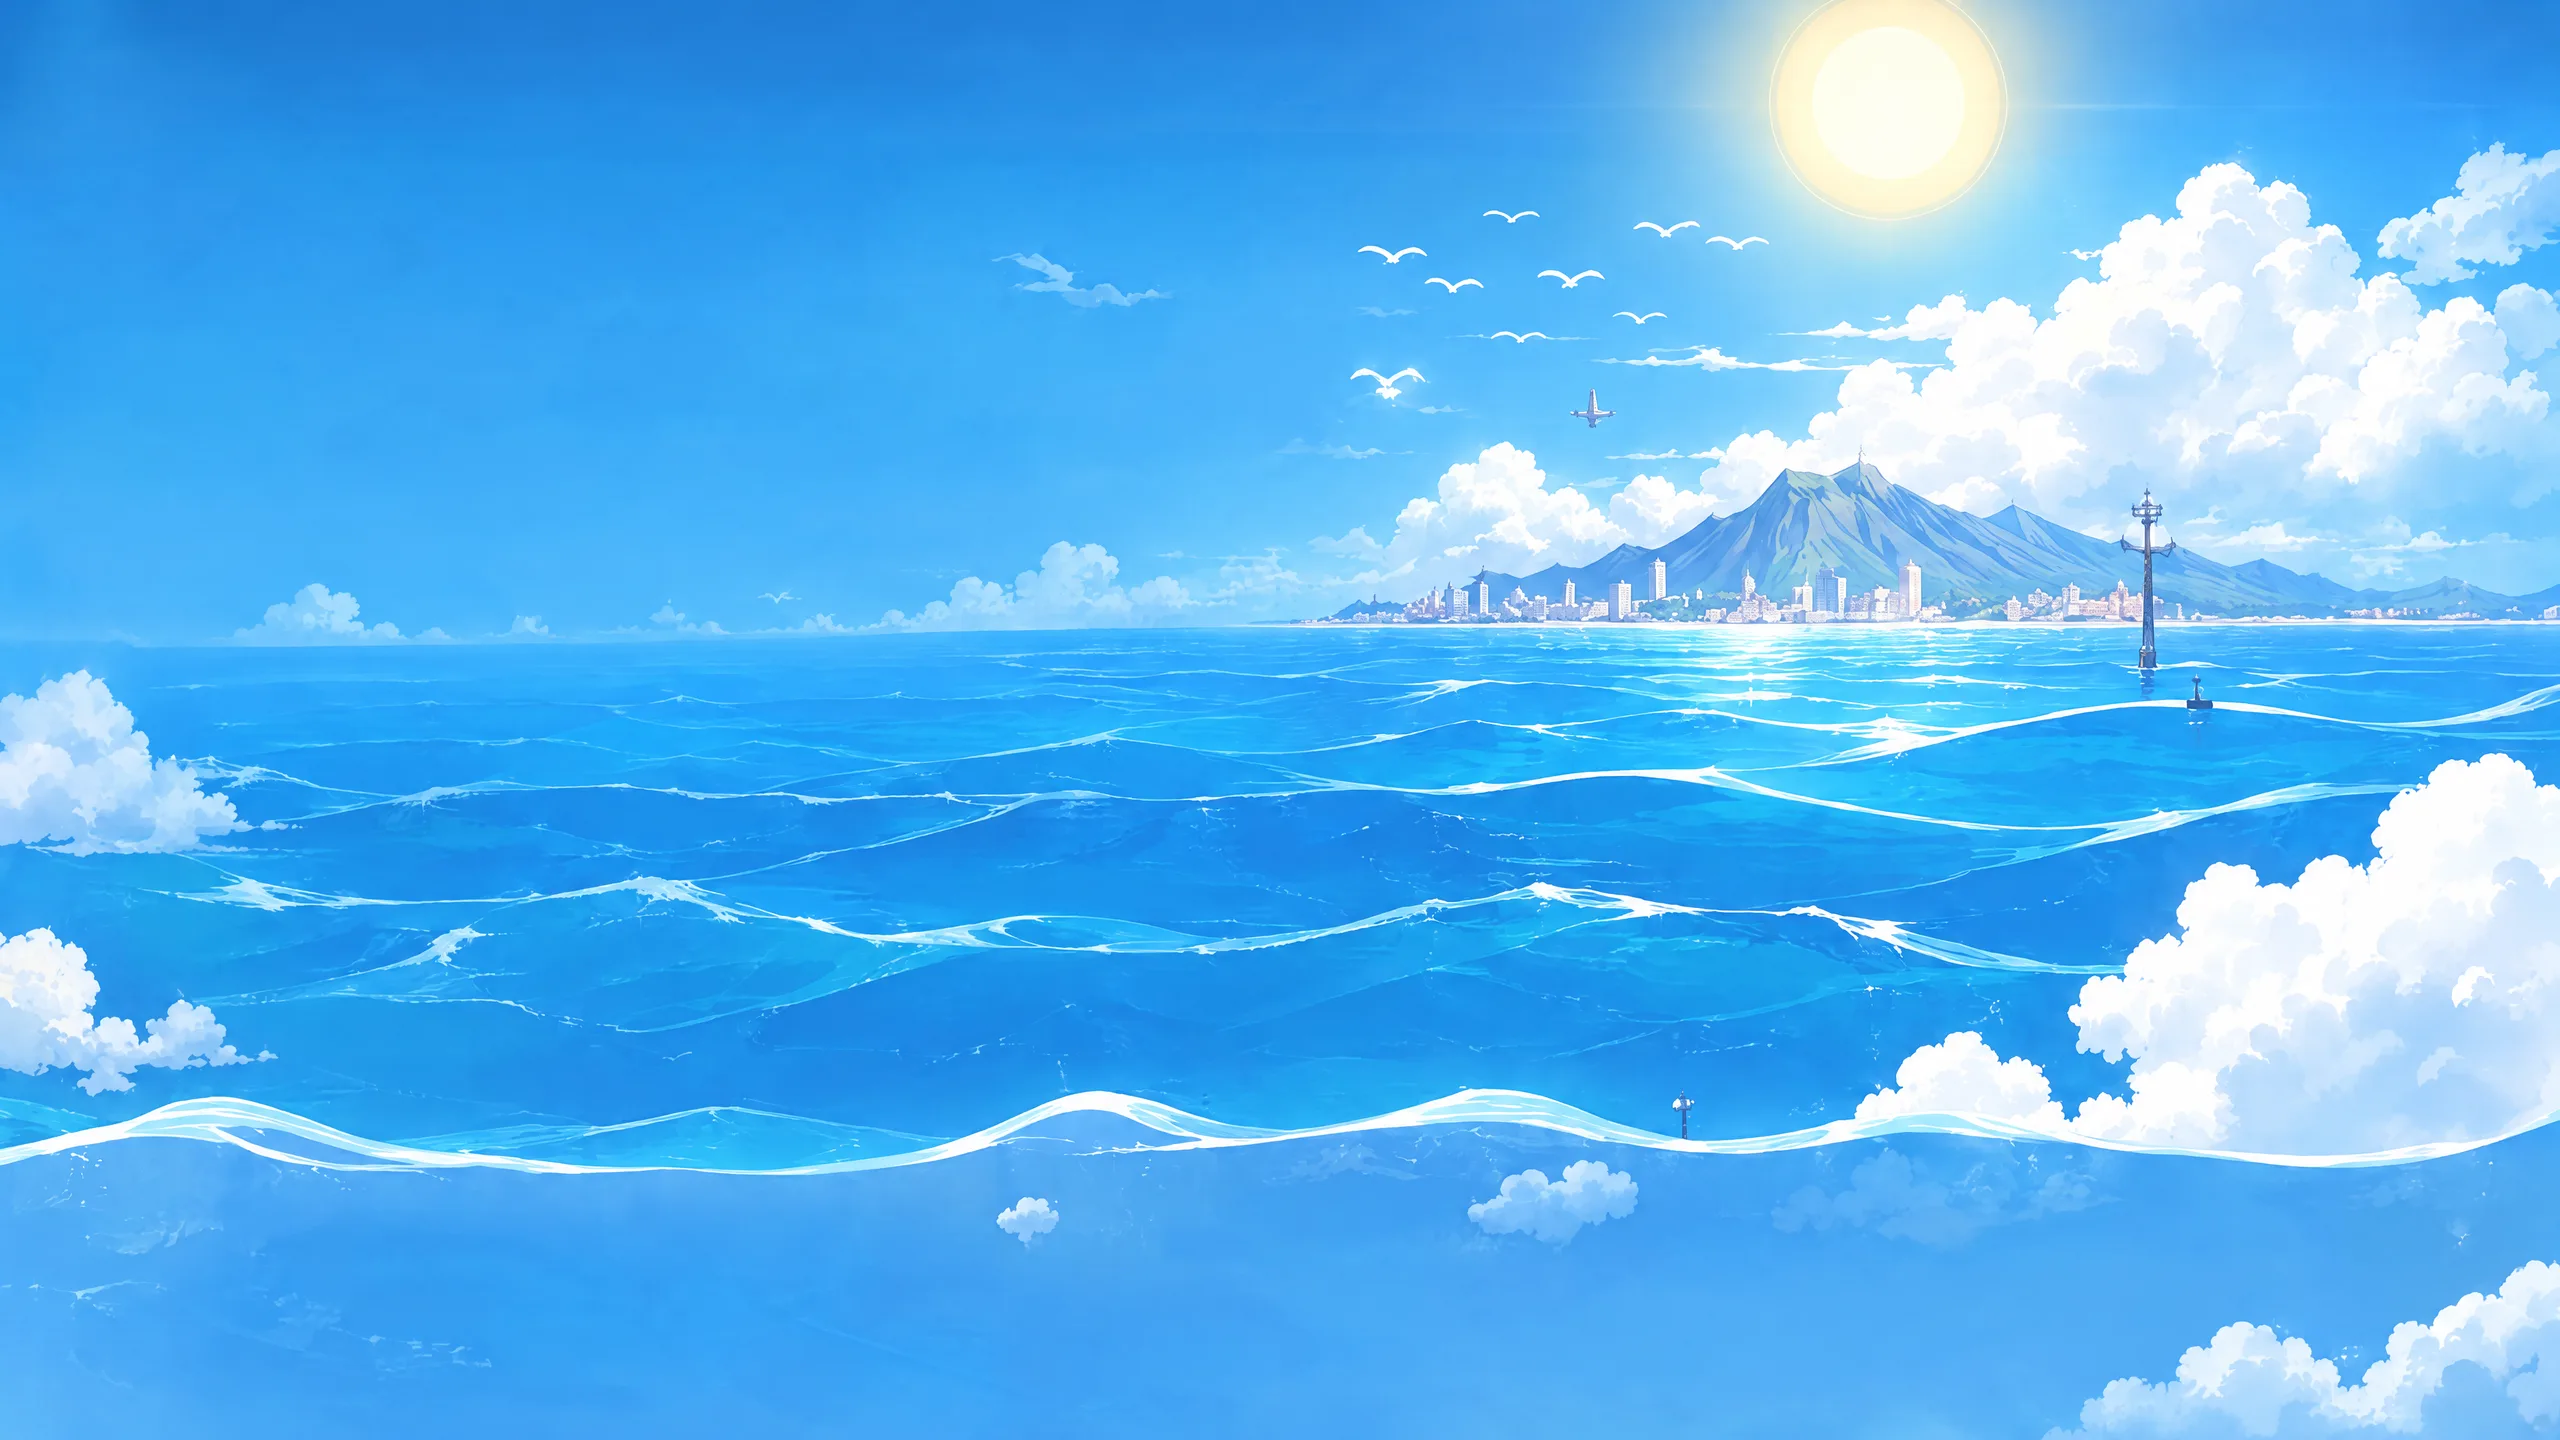
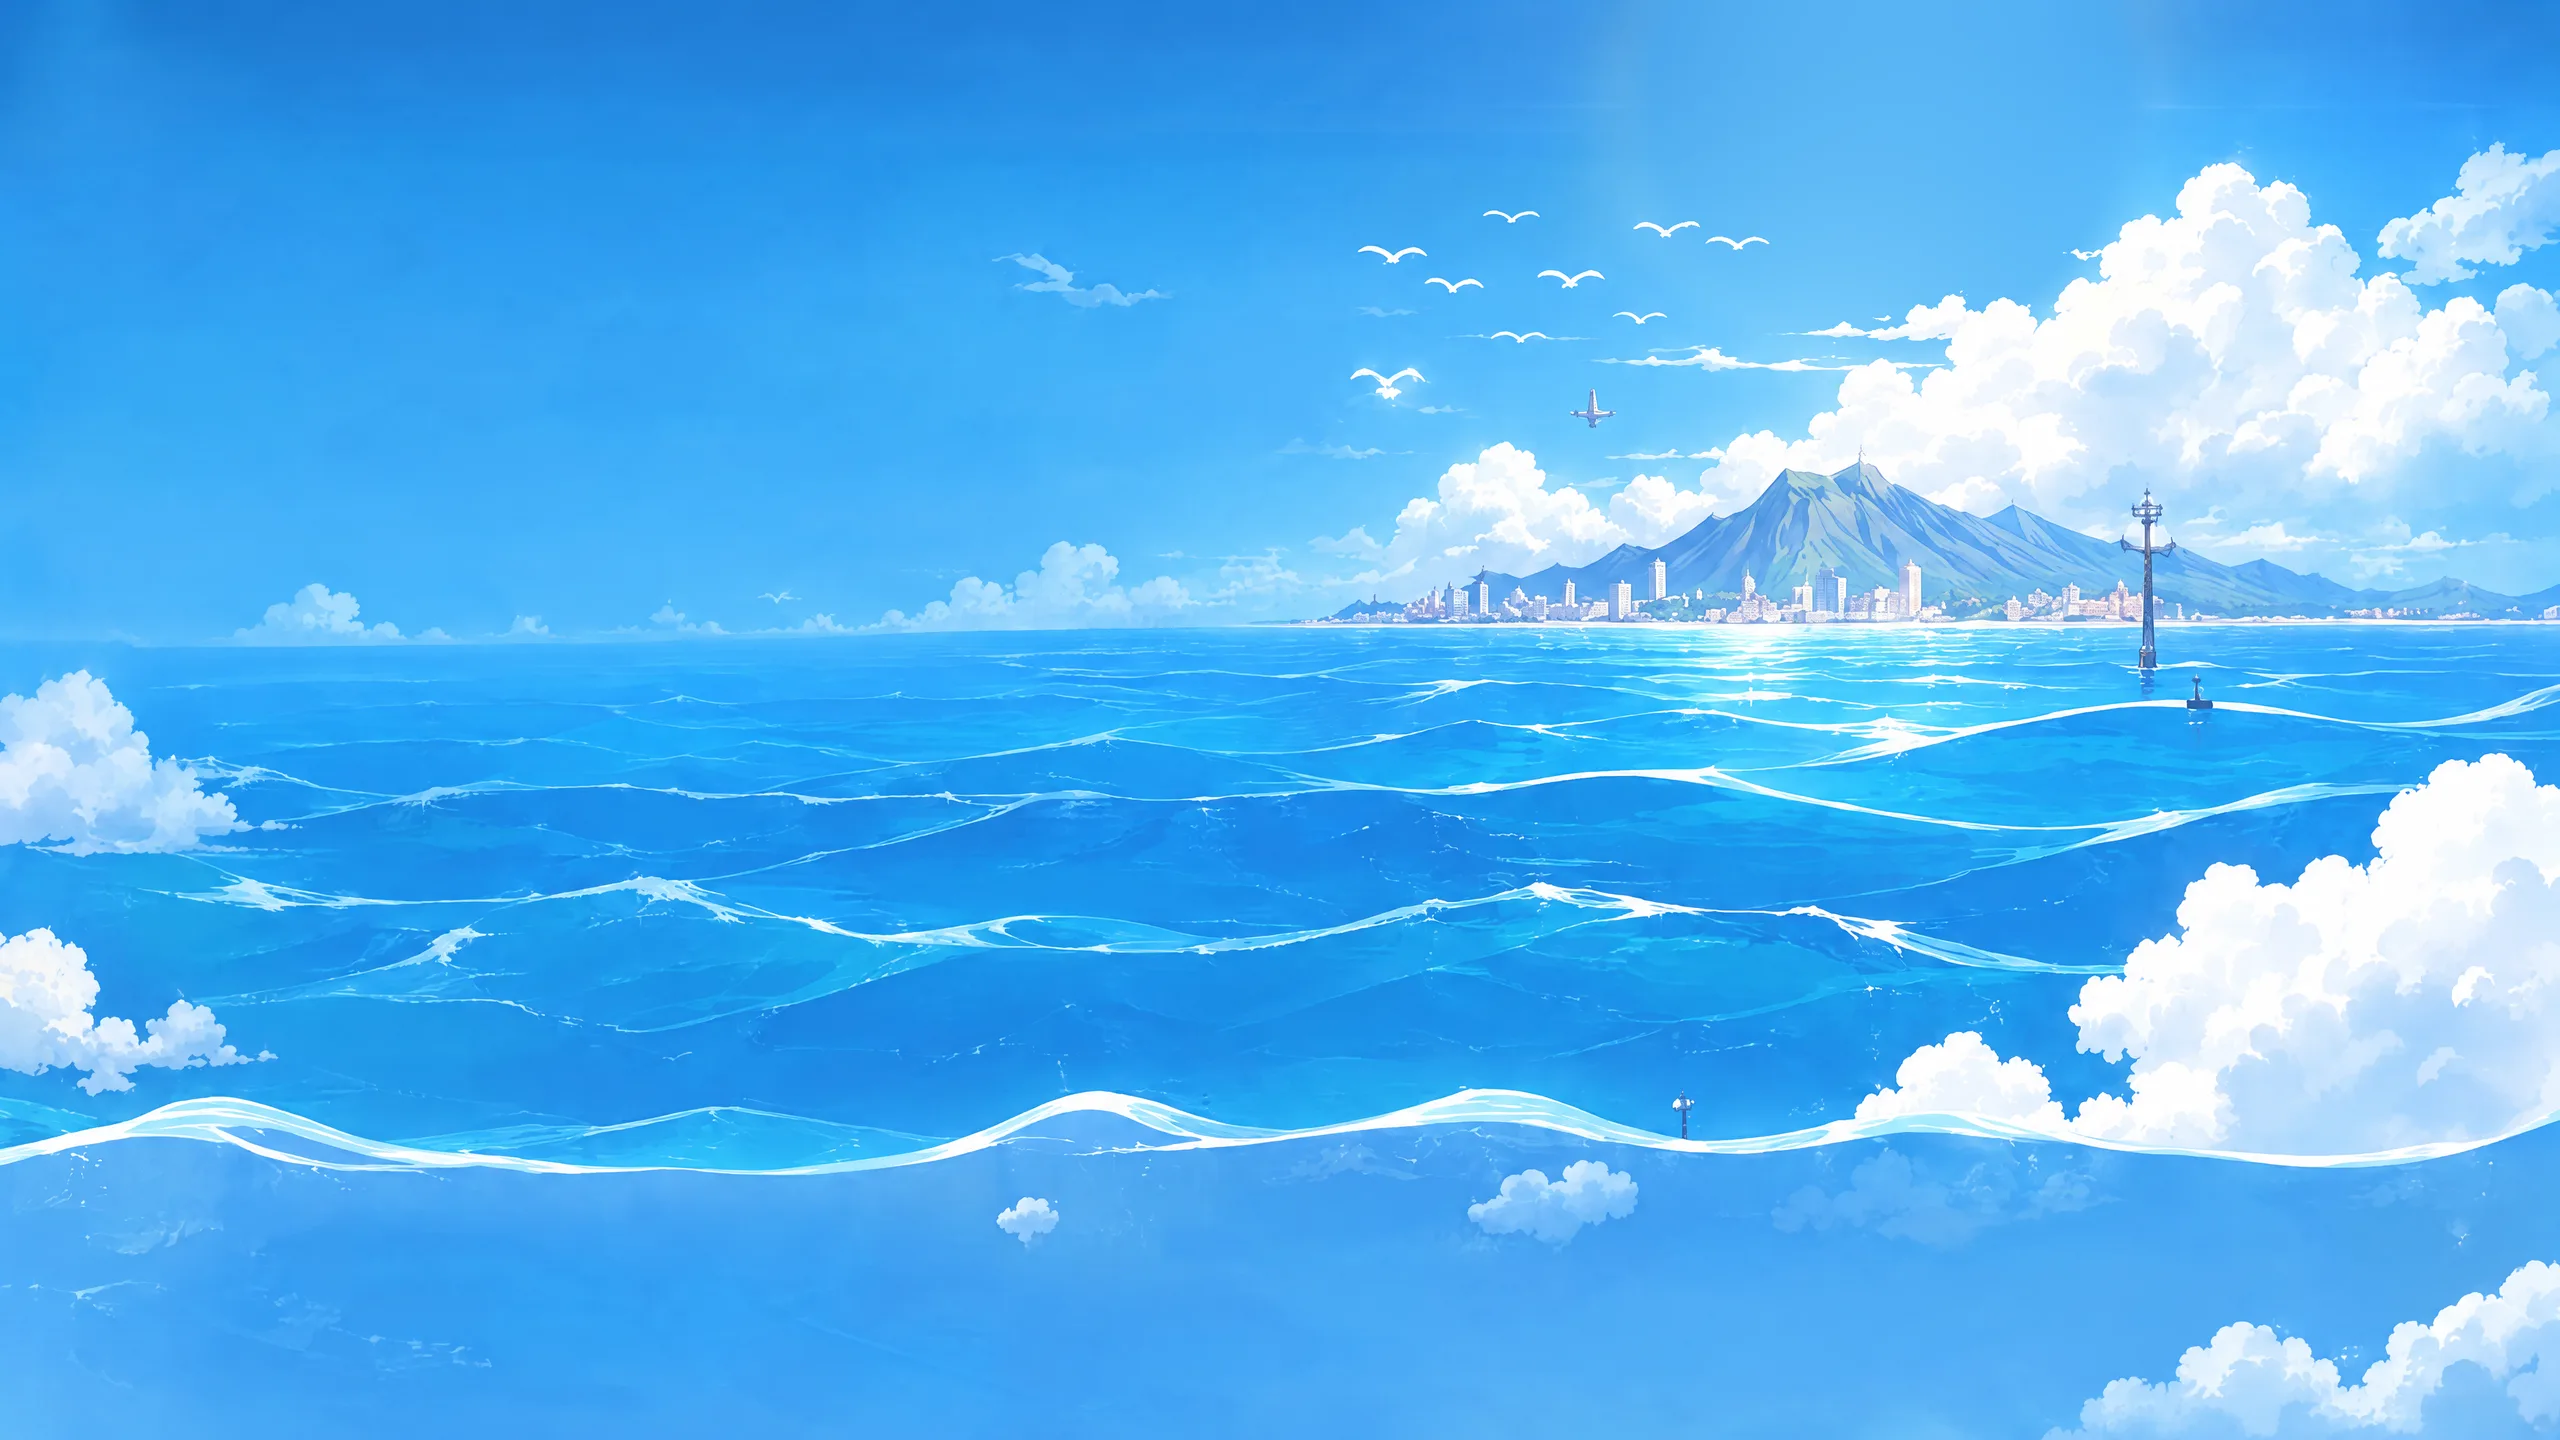
Inner pages: seamless band fade, higher titles, new shop cards; hero without the sun
Claude-Session: https://claude.ai/code/session_014rLwoYYNFr5gTR3irusd6w

Changed region(s): [[0.625, 0.0, 0.8438, 0.25]]

diff --git a/src/components/home-v3/Pages.module.css b/src/components/home-v3/Pages.module.css
@@ -2,7 +2,7 @@
    Card, nav, footer and sky styles come from HomeV3.module.css; this file adds
    the page band, page layouts and the legal two-column layout. */
 .navLinks { display: flex; gap: clamp(14px, 2vw, 34px); margin-left: auto; margin-right: 8px; }
-.navLink { color: #fff; text-decoration: none; font-family: 'Quicksand', sans-serif; font-size: 18px; font-weight: 700; padding: 8px 4px; text-shadow: 0 1px 8px rgba(20, 60, 120, 0.35); opacity: 0.92; border-bottom: 2px solid transparent; }
+.navLink { color: #fff; text-decoration: none; font-family: 'Quicksand', sans-serif; font-size: 18px; font-weight: 700; padding: 8px 4px; text-shadow: 0 1px 3px rgba(10, 40, 90, 0.55), 0 2px 14px rgba(10, 40, 90, 0.45); opacity: 0.92; border-bottom: 2px solid transparent; }
 .navLink:hover { opacity: 1; }
 .navActive { opacity: 1; border-bottom-color: #ffe08a; }
 
@@ -89,3 +89,27 @@
 }
 @media (max-width: 760px) { .grid4[style] { grid-template-columns: repeat(2, minmax(0, 1fr)) !important; } }
 @media (max-width: 480px) { .grid4[style] { grid-template-columns: minmax(0, 1fr) !important; } }
+
+/* ── Seamless band (Jose, 2026-10-09) ─────────────────────────────────────
+   One sky behind the whole page; the painted band fades into it (no line),
+   the title sits up under the nav, and the content rises into the fade. */
+.skyWrap { position: relative; background: url('/home-v3/sky.webp') center top / 100% auto repeat-y, #9fcaf3; }
+.band { height: clamp(330px, 31vw, 470px); align-items: center; }
+.band::after { display: none; }
+.bandImg { -webkit-mask-image: linear-gradient(180deg, #000 0%, #000 52%, rgba(0, 0, 0, 0.6) 72%, transparent 100%); mask-image: linear-gradient(180deg, #000 0%, #000 52%, rgba(0, 0, 0, 0.6) 72%, transparent 100%); object-position: 62% 30%; }
+.bandInner { padding-top: 70px; padding-bottom: clamp(70px, 7vw, 120px); }
+.bandSub { color: #fff; text-shadow: 0 2px 12px rgba(20, 60, 120, 0.45); }
+.body { position: relative; z-index: 2; margin-top: clamp(-110px, -6.5vw, -60px); padding-top: 0; }
+
+/* Shop cards: bigger product, soft stage, clear name + price chip. */
+.shopCard { display: flex; flex-direction: column; background: #fff; border-radius: 24px; overflow: hidden; text-decoration: none; color: #13305e; box-shadow: 0 6px 24px rgba(40, 90, 160, 0.12); transition: transform 0.3s ease, box-shadow 0.3s ease; position: relative; }
+.shopCard:hover { transform: translateY(-4px); box-shadow: 0 14px 34px rgba(40, 90, 160, 0.18); }
+.shopStage { position: relative; aspect-ratio: 1 / 1; background: radial-gradient(circle at 50% 42%, #ffffff 0%, #eef5fe 70%, #e3eefc 100%); display: grid; place-items: center; }
+.shopImg { width: 82%; height: 82%; object-fit: contain; opacity: 1; animation: none; transition: transform 0.4s ease; mix-blend-mode: multiply; }
+.shopCard:hover .shopImg { transform: scale(1.04); }
+.shopBadge { position: absolute; left: 16px; top: 16px; padding: 5px 12px; border-radius: 999px; background: #fff3c8; color: #a87600; font-family: 'Quicksand', sans-serif; font-size: 13.5px; font-weight: 700; }
+.shopInfo { display: flex; align-items: center; justify-content: space-between; gap: 12px; padding: 18px 20px 20px; }
+.shopName { margin: 0; font-family: 'Quicksand', sans-serif; font-size: clamp(17px, 1.35vw, 21px); font-weight: 700; line-height: 1.25; }
+.shopView { display: block; margin-top: 4px; font-family: 'Quicksand', sans-serif; font-size: 14px; font-weight: 700; color: #2f6fc4; }
+.shopPrice { flex: none; padding: 9px 16px; border-radius: 14px; background: #e3edff; color: #13305e; font-family: 'Quicksand', sans-serif; font-size: clamp(16px, 1.25vw, 19px); font-weight: 700; }
+@media (max-width: 760px) { .bandInner { padding-top: 60px; } .body { margin-top: -50px; } }

diff --git a/src/components/home-v3/pages/Shop.tsx b/src/components/home-v3/pages/Shop.tsx
@@ -2,7 +2,6 @@ import Link from 'next/link';
 import { getVisibleProducts } from '@/lib/merch';
 import { Product } from '@/types';
 import PageShell from '../PageShell';
-import s from '../HomeV3.module.css';
 import p from '../Pages.module.css';
 
 /** Printful thumbs are low-res; the same asset is served larger as `_preview`. */
@@ -27,13 +26,18 @@ export default async function ShopPage() {
                             {products.map((m, i) => {
                                 const anchor = m.anchorPrice != null && m.anchorPrice > m.price ? m.anchorPrice : null;
                                 return (
-                                    <Link key={m.id} href={`/merch/${m.id}`} className={s.merch} data-reveal data-reveal-i={i % 4}>
-                                        {(m.label || m.isFeatured) && <span className={`${s.badge} ${s.badgeGold}`}>{m.label || 'The flagship'}</span>}
-                                        {/* eslint-disable-next-line @next/next/no-img-element */}
-                                        <img src={upgrade(m.image)} alt={m.name} loading="lazy" className={s.merchImg} />
-                                        <div className={s.merchBody}>
-                                            <h3>{m.name}</h3>
-                                            <p className={s.price}>{anchor && <span className={p.anchor}>${anchor.toFixed(2)}</span>}${m.price.toFixed(2)}</p>
+                                    <Link key={m.id} href={`/merch/${m.id}`} className={p.shopCard} data-reveal data-reveal-i={i % 4}>
+                                        <div className={p.shopStage}>
+                                            {(m.label || m.isFeatured) && <span className={p.shopBadge}>{m.label || 'The flagship'}</span>}
+                                            {/* eslint-disable-next-line @next/next/no-img-element */}
+                                            <img src={upgrade(m.image)} alt={m.name} loading="lazy" className={p.shopImg} />
+                                        </div>
+                                        <div className={p.shopInfo}>
+                                            <div>
+                                                <h3 className={p.shopName}>{m.name}</h3>
+                                                <span className={p.shopView}>View details →</span>
+                                            </div>
+                                            <span className={p.shopPrice}>{anchor && <span className={p.anchor}>${anchor.toFixed(2)}</span>}${m.price.toFixed(2)}</span>
                                         </div>
                                     </Link>
                                 );

diff --git a/src/components/home-v3/PageShell.tsx b/src/components/home-v3/PageShell.tsx
@@ -45,6 +45,7 @@ export default function PageShell({
                 <Link href="/#forecast" className={s.navCta}>Join</Link>
             </header>
 
+            <div className={p.skyWrap}>
             <section className={p.band}>
                 {/* eslint-disable-next-line @next/next/no-img-element */}
                 <img src="/home-v3/hero-1440x.webp" alt="" className={p.bandImg} />
@@ -54,7 +55,8 @@ export default function PageShell({
                 </div>
             </section>
 
-            <div className={`${s.sky} ${p.body}`}>{children}</div>
+            <div className={p.body}>{children}</div>
+            </div>
 
             <footer className={s.footer}>
                 <svg className={`${s.wave} ${s.waveFlip}`} viewBox="0 0 1440 90" preserveAspectRatio="none" aria-hidden="true">
